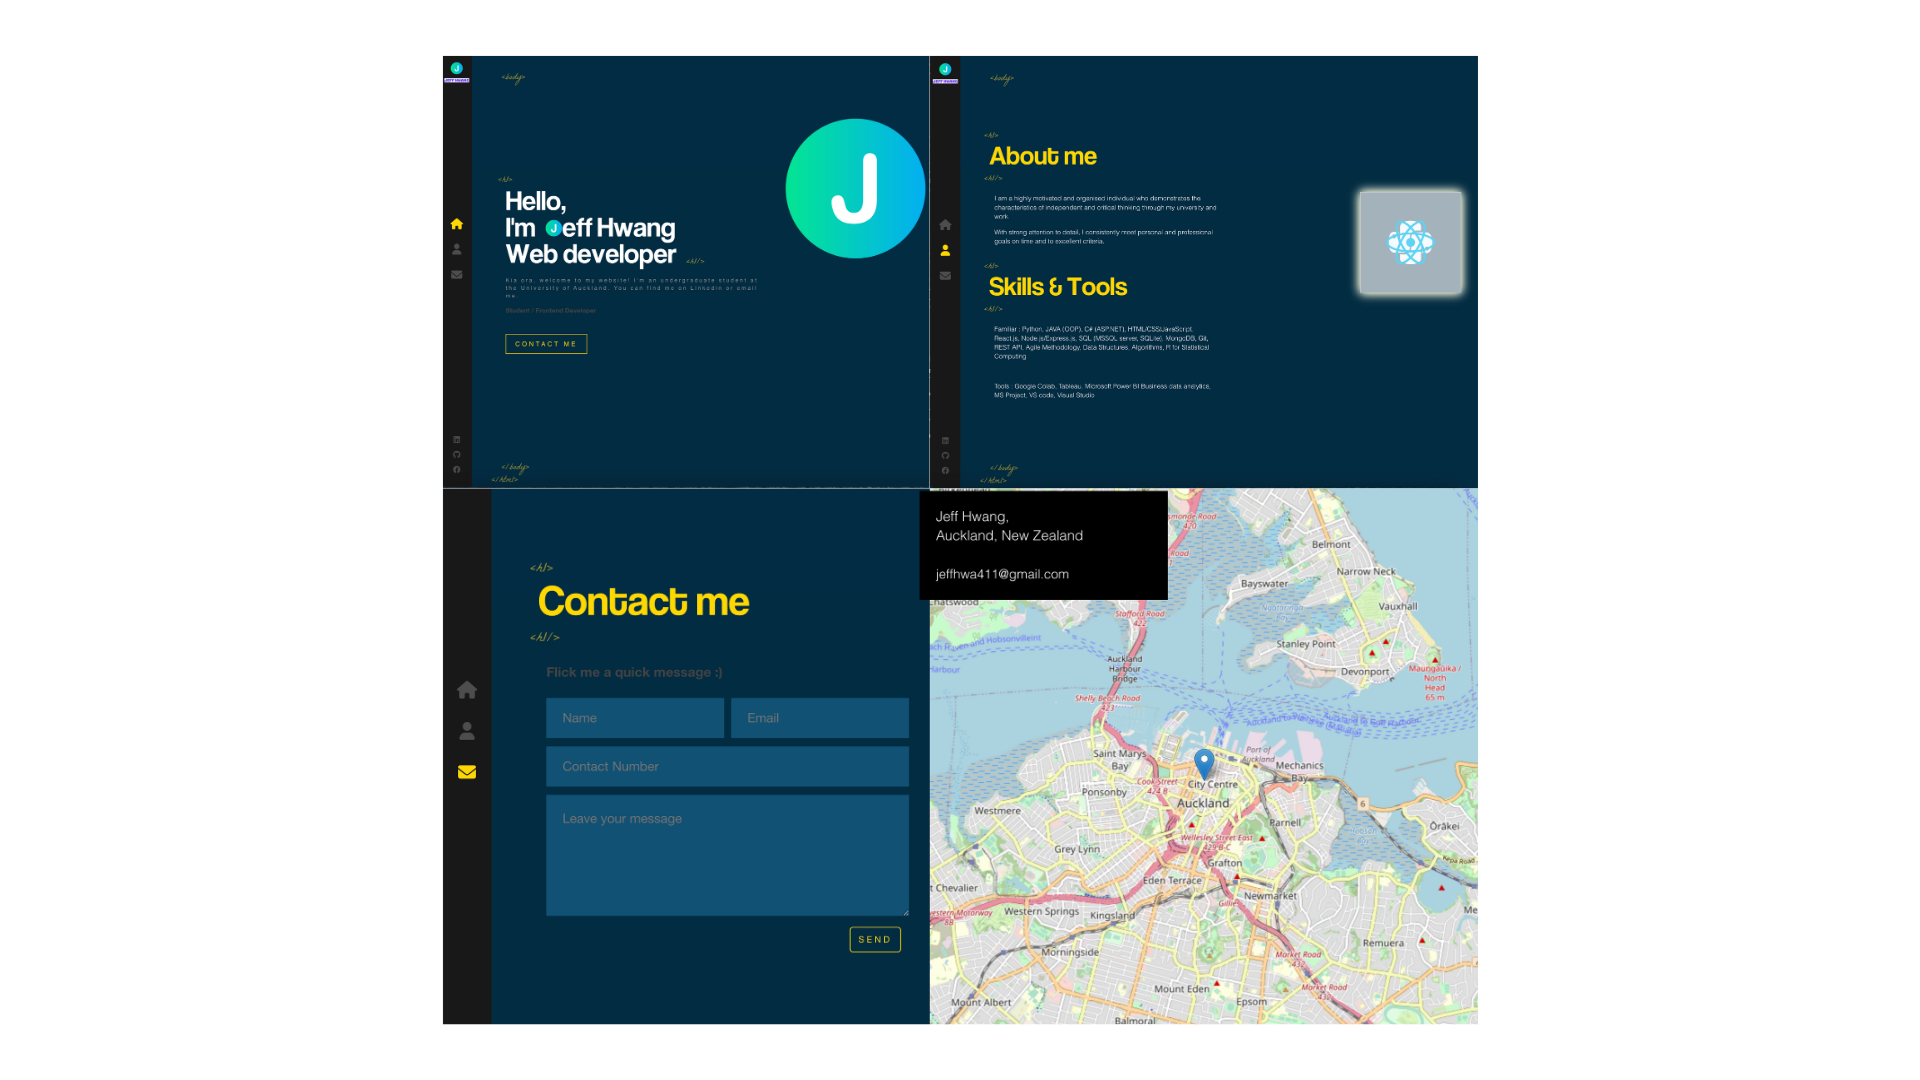
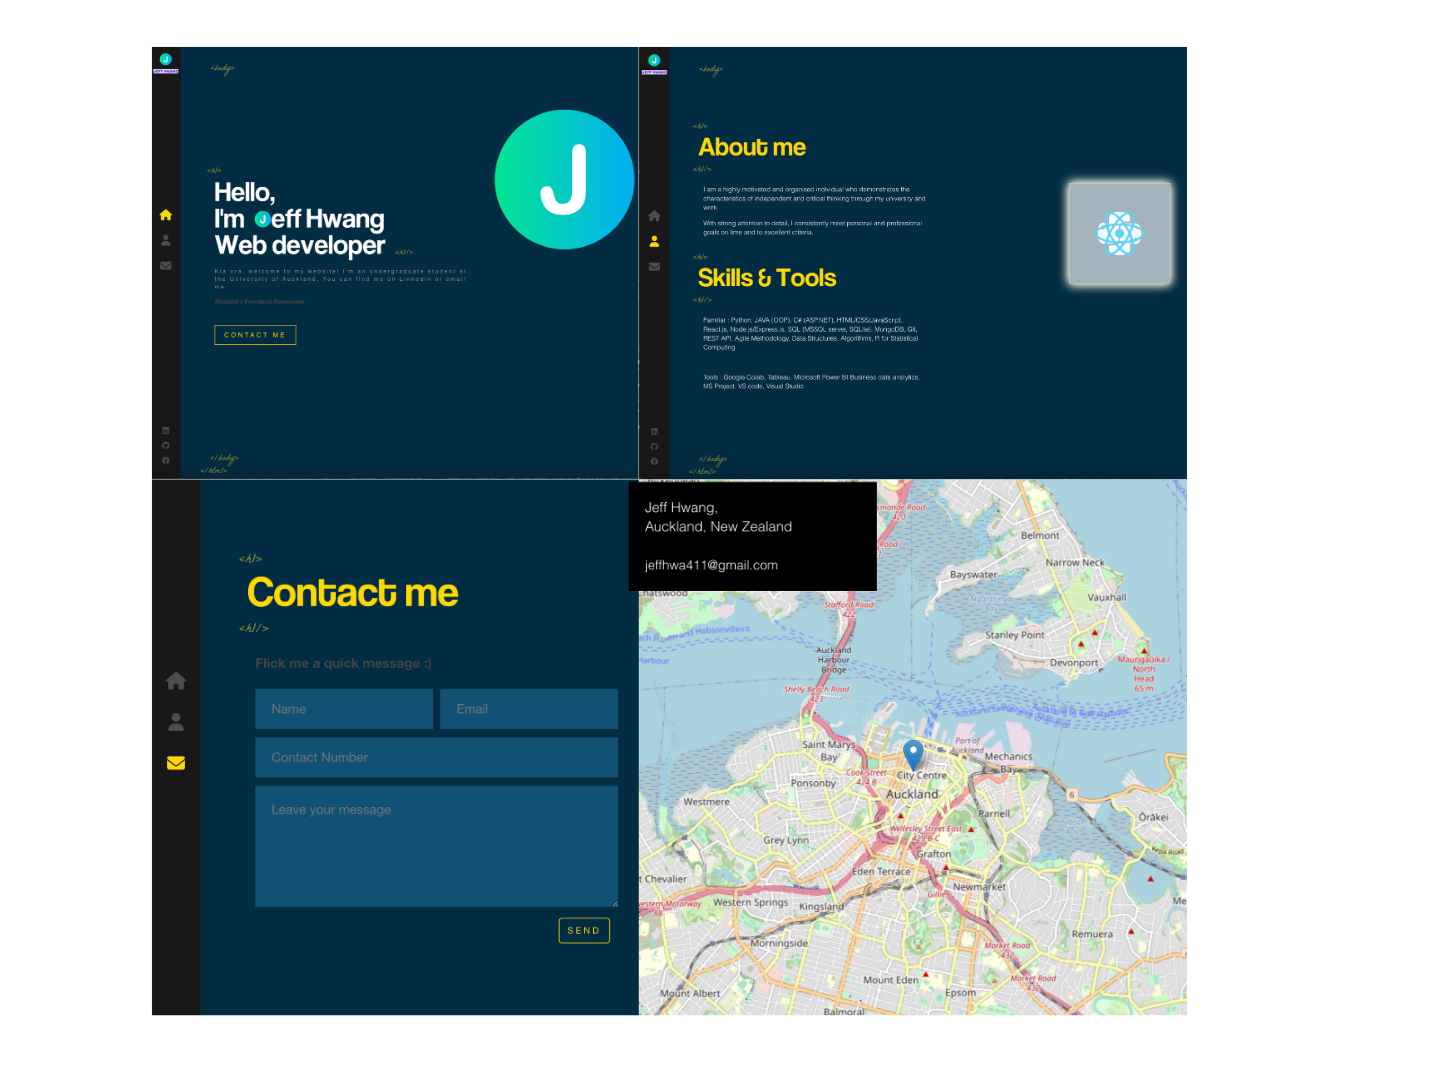
React-JS-Personal-Portfolio-Website-ver2

diff --git a/React-JS-Personal-Portfolio-Website-ver2/personal-website/src/Components/MyPortfolio/MyPortfolio.css b/React-JS-Personal-Portfolio-Website-ver2/personal-website/src/Components/MyPortfolio/MyPortfolio.css
@@ -84,12 +84,13 @@ a:visited {
 }
 
 .portfolio--section--img {
-    border-radius: 8px;
+    /* border-radius: 8px; */
     width: 100%;
 }
 
 .portfolio--section--img>img {
     width: 100%;
+    border-radius: 50px;
 }
 
 .portfolio--section--card {
@@ -103,6 +104,7 @@ a:visited {
     cursor: pointer;
     border-top-left-radius: 12px;
     border-top-right-radius: 12px;
+    border-radius: 50px;
 }
 
 .portfolio--section--card--content {
